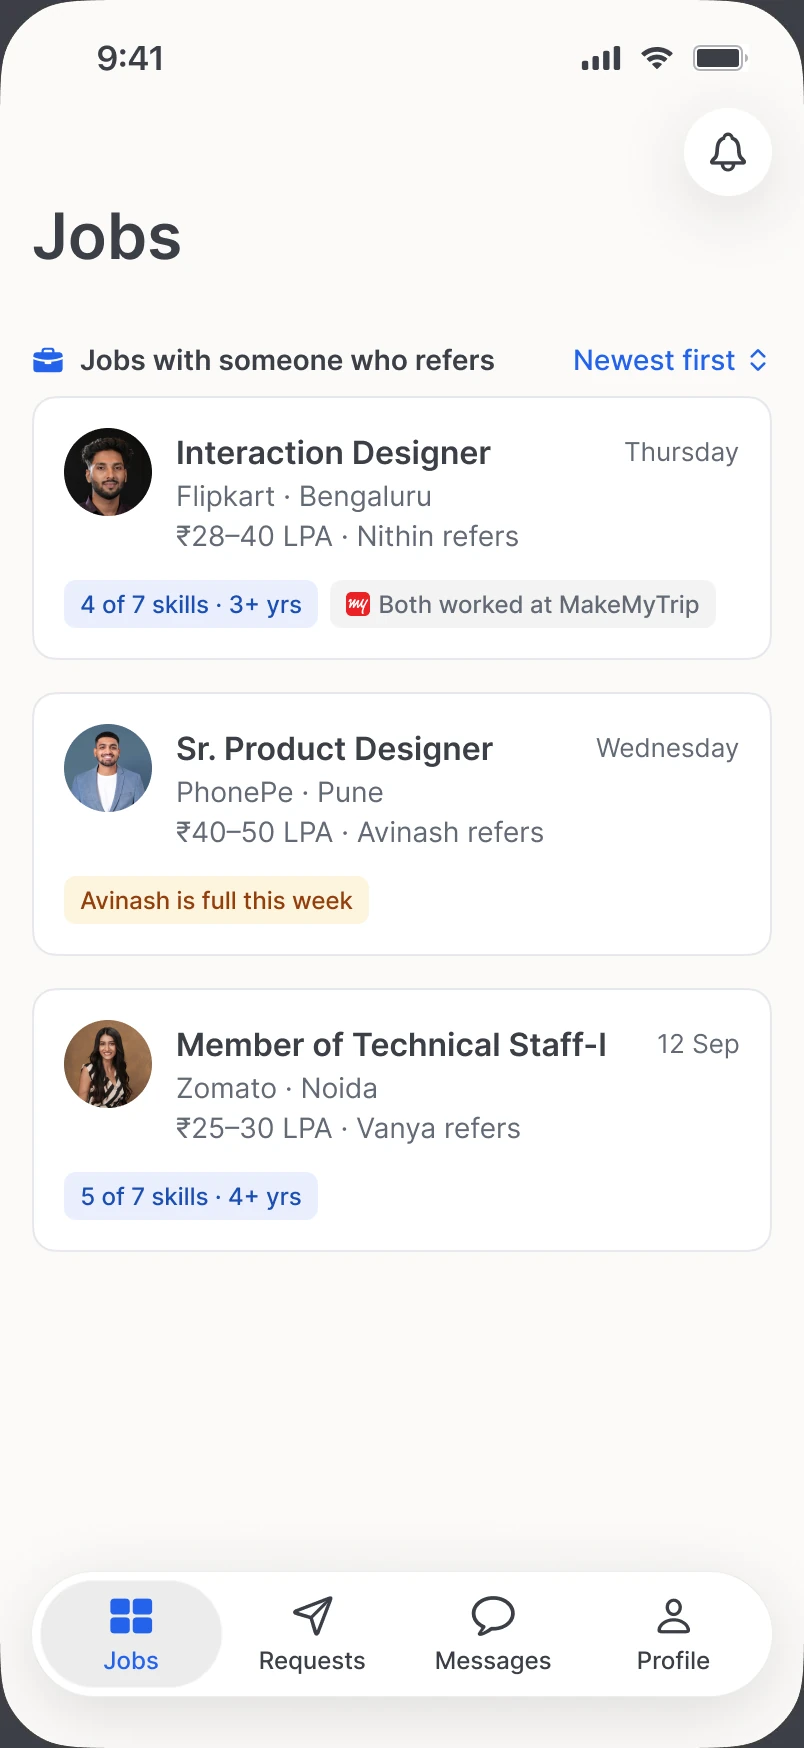
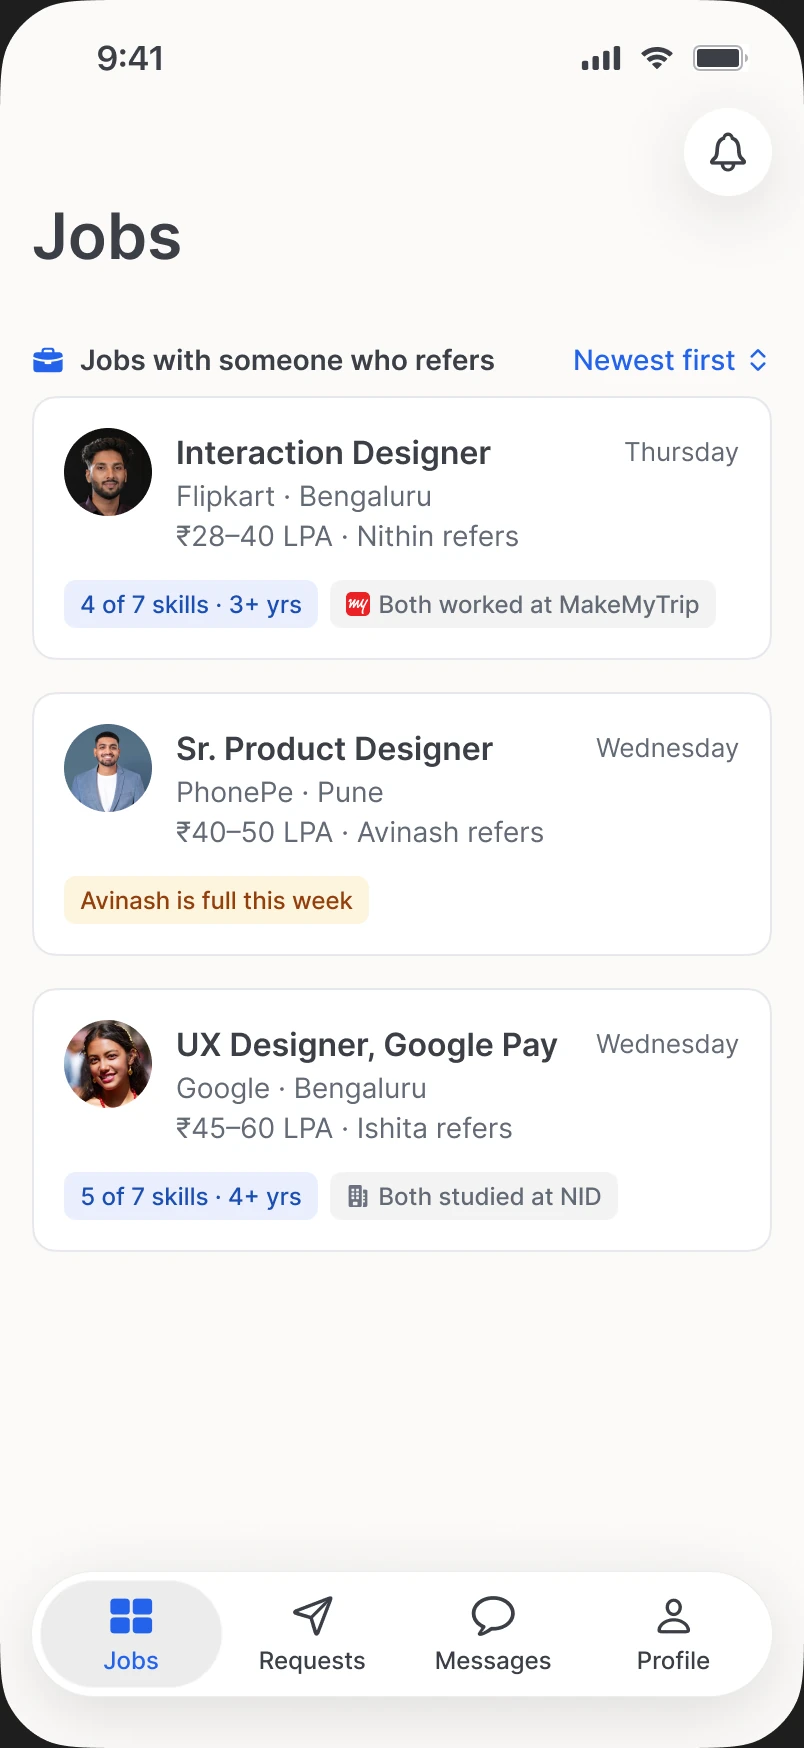
SideDoor: every remaining state checked against Figma; fixes on both sides; case study screens re-exported (verified on localhost)
Prototype: no tab bar on profile subpages and previews, Jobs offline note above the sort row, login note centred, SF link on project rows, no seal on candidates in the referrer's Messages, 6 between a row value and its chevron, no gap between suggested questions.
Figma (same pass): tab bar on two track frames, empty-state offsets, disabled label colour, 14px note icons, 14px Invite, resume paper spacing, Contact support label icons, Where you work actions at the bottom, successOnPage notes, Referred Before rebuilt as the Google job, full request and job lists.
Images: jobs, requests (now a scrolled crop with Lower match and Suggested in view; Scene 4 notes moved), emailed, st_offline, st_cantsend, post, link_before, st_empty.

diff --git a/components/sidedoor/screens/onboarding.tsx b/components/sidedoor/screens/onboarding.tsx
@@ -115,7 +115,10 @@ export function Login() {
           {/* Figma "Login/Cancelled": backing out of LinkedIn lands here with one plain line —
               not an error, since they chose to leave */}
           {force === "login.cancelled" && (
-            <Note icon="info.circle.fill">LinkedIn sign-in was cancelled.</Note>
+            // centred like everything else on this screen (Figma)
+            <div style={{ alignSelf: "center" }}>
+              <Note icon="info.circle.fill">LinkedIn sign-in was cancelled.</Note>
+            </div>
           )}
           {/* order and the 8 gap are decisions in LOG.md: LinkedIn, Google, Apple */}
           <div style={{ display: "flex", flexDirection: "column", gap: 8, width: "100%" }}>
@@ -680,7 +683,7 @@ export function Project({ title, skills, detail, link }: { title: string; skills
         {/* the proof sits with the work it proves */}
         {link && (
           <button className="sd-hit44" style={{ display: "flex", alignItems: "center", justifyContent: "flex-start", gap: 4, textAlign: "left", minWidth: 0, width: "100%" }} onClick={() => nav.push("profileLink", { site: "Project", name: title, url: link })}>
-            <Icon name="link.line" size={16} color="var(--sd-link)" />
+            <Icon name="link" size={16} color="var(--sd-link)" />
             <span className="t-label link sd-1line">{link}</span>
           </button>
         )}
@@ -956,7 +959,8 @@ export function QuestionField() {
       />
       <div style={{ display: "flex", flexDirection: "column", gap: 8 }}>
         <p className="t-label-sm muted">Suggested from {you.post.jd}</p>
-        <Box>
+        {/* rows carry their own 8 padding and hairline, so no gap between them (Figma "Suggestion List") */}
+        <Box style={{ gap: 0 }}>
           {you.post.suggest.map((s) => {
             const on = value.trim() === s.q;
             return (

diff --git a/app/work/sidedoor/page.tsx b/app/work/sidedoor/page.tsx
@@ -212,11 +212,11 @@ export default function SidedoorCaseStudy() {
 
       <Beat label="Scene 4 · The referrer's list" title="Nithin sees the best fit first, with the reason on the card."
         sub="How does a referrer decide on a work break? Requests are ordered by fit. The weaker ones are folded away but still there, because Samarth refers borderline people on purpose.">
-        <PhoneShot src={scr("requests")} alt="Referral requests for one job, ordered by fit, with Lower match folded and Suggested for this job below."
+        <PhoneShot src={scr("requests")} alt="The end of Nithin's list of requests for one job, ordered by fit, with Lower match folded and Suggested for this job below."
           notes={[
-            { box: [7, 31, 86, 4.3], title: "Fit and common ground", sub: "on the card, before he opens it" },
-            { box: [2, 67.6, 96, 3.8], title: "Lower match, folded", sub: "one tap away" },
-            { box: [2, 72.9, 96, 7.4], title: "Suggested for this job", sub: "people who chose to be found" },
+            { box: [4, 31.2, 33, 2.9], title: "Fit on every card", sub: "the reason, before he opens it" },
+            { box: [2, 52.2, 96, 2.8], title: "Lower match, folded", sub: "one tap away" },
+            { box: [2, 58.6, 96, 4.8], title: "Suggested for this job", sub: "people who chose to be found" },
           ]} />
       </Beat>
 

diff --git a/components/sidedoor/screens/candidate.tsx b/components/sidedoor/screens/candidate.tsx
@@ -42,7 +42,7 @@ const skillTag = (j: Job) => `${matchOf(j)} of ${j.skills.length} skills · ${yr
 
 export function Jobs() {
   const nav = useNav();
-  const { skippedResume, unread, force, you, welcome, profile, dispatch } = useStore();
+  const { skippedResume, unread, force, you, welcome, profile, offline, dispatch } = useStore();
   const [phase, setPhase] = useState<"loading" | "ok">("loading");
   useEffect(() => {
     if (force === "jobs.loading") return;
@@ -92,6 +92,7 @@ export function Jobs() {
     <Screen
       largeTitle="Jobs"
       right={<BellButton unread={unread} />}
+      ownOffline={showList}
       // the title, the resume prompt and the sort row stay put; only the jobs scroll (Devansh, 23 Sep)
       pinned={
         showList ? (
@@ -104,6 +105,8 @@ export function Jobs() {
               />
             )}
             {prompt}
+            {/* Figma "Jobs · Offline": the note sits under the title, above the sort row */}
+            {offline && <Note style="buffer" icon="info.circle.fill">You’re offline. Showing what was saved.</Note>}
             {sortRow}
           </div>
         ) : (

diff --git a/components/sidedoor/screens/shared.tsx b/components/sidedoor/screens/shared.tsx
@@ -138,7 +138,8 @@ export function Messages() {
                 <span style={{ flex: 1, display: "flex", flexDirection: "column", gap: 4, minWidth: 0 }}>
                   <span style={{ display: "flex", alignItems: "center", gap: 2, minWidth: 0 }} className="t-h-sm">
                     <span className="sd-1line">{c.name}</span>
-                    <Icon name="checkmark.seal.fill" size={16} style={{ color: "var(--sd-text-success)" }} />
+                    {/* the seal is a verified referrer's mark: a candidate's list shows it, a referrer's doesn't (Figma) */}
+                    {asTab && <Icon name="checkmark.seal.fill" size={16} style={{ color: "var(--sd-text-success)" }} />}
                   </span>
                   {/* Figma paints an unread preview in the dark text colour and a read one grey */}
                   <span

diff --git a/components/sidedoor/screens/sheets.tsx b/components/sidedoor/screens/sheets.tsx
@@ -426,7 +426,7 @@ export function ProofSheet({ id, skill, leaving }: { id: string; skill: string; 
           {p.quote && <p className="t-body">“{p.quote}”</p>}
           {p.link && (
             <button className="sd-hit44" style={{ display: "flex", alignItems: "center", justifyContent: "flex-start", gap: 4, textAlign: "left", minWidth: 0, width: "100%" }} onClick={open}>
-              <Icon name="link.line" size={16} color="var(--sd-link)" />
+              <Icon name="link" size={16} color="var(--sd-link)" />
               <span className="t-label link sd-1line">{p.link}</span>
             </button>
           )}

diff --git a/components/sidedoor/ui.tsx b/components/sidedoor/ui.tsx
@@ -534,7 +534,8 @@ export function Row({
       </span>
       {end && <span style={{ marginLeft: "auto" }}>{end}</span>}
       {chevron && (
-        <span className="sd-row-chev" style={{ marginLeft: end ? 6 : "auto" }}>
+        // Figma End group: value and chevron 6 apart; the row gap is 8, so pull back 2
+        <span className="sd-row-chev" style={{ marginLeft: end ? -2 : "auto" }}>
           <Icon name="chevron.right" size={16} style={{ color: "var(--sd-n400)" }} />
         </span>
       )}

diff --git a/components/sidedoor/App.tsx b/components/sidedoor/App.tsx
@@ -38,6 +38,8 @@ import { SCENARIOS } from "./scenarios";
 const SCREENS_WITHOUT_TABS = new Set([
   "login", "role", "uploadResume", "checkProfile", "verifyEmail", "addJob", "checkPost",
   "jobLive", "chat", "editDetails", "editProfileReferrer", "editPost", "linkPage",
+  // Figma draws the profile's own pages and the document previews without the bar
+  "help", "helpArticle", "contactSupport", "verifyWork", "settings", "saved", "resume", "profileLink",
 ]);
 
 /**

diff --git a/sidedoor-case-study/LOG.md b/sidedoor-case-study/LOG.md
@@ -3576,3 +3576,31 @@ CHANGE · 2026-09-25 · Case study screens re-exported after the consistency pas
 Changed:   The Figma fixes (24-tall tags, 12px salary tag, grey shared-history chips, request card gap, AA colours, AI-assisted design in Abhinav's skills) touched 15 of the case study's images: jobs, job, check, requests, request, proof, emailed, marked, track, link_before, link_sent, st_noanswer, st_cantsend, st_offline, post. Re-rendered at 2x with the same crops (CASE_STUDY_VERSION.md). For the scrolled crops the content was moved up under the header in a temporary copy, the solid header and its soft shadow kept as before (the V6 header is see-through in a raw render). proof keeps its sheet over the new request at 60%.
 Boxes:     two note boxes nudged to the new layout: Job details "How you match" 19.5 → 20.8 tall (it cut the note's second line), request "Listed only" 75/6.9 → 74.2/8.2.
 Verified:  every annotated beat on localhost; boxes on jobs, job, check, requests, request, emailed and post checked by eye.
+
+CHANGE · 2026-09-26 · Every remaining state checked against Figma (positions and icons), then images re-exported
+How:       99 more V6 frames paired with their prototype state (65 presets, 34 more reached through temporary presets and taps), texts and icons measured in the browser and diffed inside Figma. The first pass read nothing inside components: use_figma had not loaded the page. With the page loaded, the 13 main steps were re-checked too.
+Figma fixed:
+  - Track Details/1 and Withdraw Alert: the tab bar sat 8 high (content hugged, not filled).
+  - Empty states placed by the component swap sat 8–24 low: Referral requests Empty, All handled, Couldn't load; Jobs Empty, Couldn't load; Track Couldn't load.
+  - Disabled button label was neutral/400 (#9ca3af) in the Button component; the prototype and the AA pass use #5f6671. Component and 5 overrides.
+  - Note icons 12 → 14 (the prototype's 23 Sep rule "notes keep 14"), 14 notes.
+  - Invite / Invited 16 → 14 (code since the 20 Sep match-Figma pass), component and 12 instances.
+  - Resume Preview: 8 above and below the rule and 8 above each heading, as the prototype's paper.
+  - Contact support: the two fields had no label icons (every other form has them).
+  - Where you work (+ Code sent): Send code / Verify pinned to the bottom like every other form.
+  - Emailed and Updated notes use successOnPage (#15803d is 4.49:1 on the grey page).
+  - Referred Before: the frame showed the Flipkart job, but Abhinav was referred at Google, so the prototype shows Google Pay. Frame rebuilt as that job (Ishita, Google wordmark on white, 5 of 7, Missing: Accessibility).
+  - Referral request lists: the prototype has 10 requests, Lower match (4) and 3 suggestions (usability-test data, 23 Sep); Figma had 3, (2) and 2. All 7 list frames now match.
+  - Jobs lists: the third job is Google Pay (Ishita), not Zomato, in all 5 frames.
+Code fixed:
+  - Tab bar hidden on Help, How referrals work, Contact support, Where you work, Settings, Saved, resume and link previews (Figma draws them without it).
+  - Jobs offline note sits under the title, above the sort row (it scrolled under the pinned header).
+  - Login "sign-in was cancelled" note centred.
+  - Project links use SF link (Figma's 17 project rows), not the outline link.
+  - Referrer's Messages: no seal on candidates (the seal marks a verified referrer).
+  - Profile row value to chevron 6, not 14.
+  - Suggested questions on the job post: no 12 gap between rows (rows carry their own padding and hairline).
+Left as is: a 4 px gap above Resume on the thin-profile request; Edit links hidden while the resume is being read; the Referral requests "Flipkart · Submitted" frame vs the prototype's "Sent" (a later moment in the story).
+Images:    re-exported jobs, requests, emailed, st_offline, st_cantsend, post, link_before, st_empty. requests is now a scrolled crop (job row pinned, end of the list) so Lower match and Suggested stay in view; Scene 4 notes moved.
+Verified:  re-measure of the 13 main steps and every changed state; Scene 4 on localhost.
+Rule:      any fix to a screen ships to Figma, the prototype, every case study image that shows it and the home card, in the same change (memory: sidedoor-fix-shows-everywhere).

diff --git a/sidedoor-case-study/CASE_STUDY_VERSION.md b/sidedoor-case-study/CASE_STUDY_VERSION.md
@@ -34,7 +34,7 @@ Crops are `header / footer / scroll offset` in 1x points. Where the offset is no
 | jobs.webp | Candidate/Jobs Screen 5247:18584 | full | Act 2 Scene 1 |
 | job.webp | Candidate/Job Screen 5247:18687 | 98 / 232 / 300 | Hero, Scene 2, home card (left) |
 | check.webp | Candidate/Check Your Referral Request Screen 5247:18695 | 98 / 88 / 0 | Scene 3 |
-| requests.webp | Referrer/Referral Requests Screen 5247:18631 | 146 / 88 / 0 | Scene 4 |
+| requests.webp | Referrer/Referral Requests Screen 5247:18631 | 196 / 88 / 1222 (job row pinned; the end of the 10-request list) | Scene 4 |
 | request.webp | Referrer/Referral Request Screen 5247:18762 | 98 / 88 / 0 | Hero, Scene 5, Act 3 "Before and after", home card (right) |
 | proof.webp | Referrer/Skill Proof Sheet 5750:42504 over request.webp, dimmed 40% | composite | Scene 6 |
 | emailed.webp | Referrer/Referral Request Screen/After Refer/Emailed 5757:31343 | 98 / 88 / 0 | Scene 7 |
